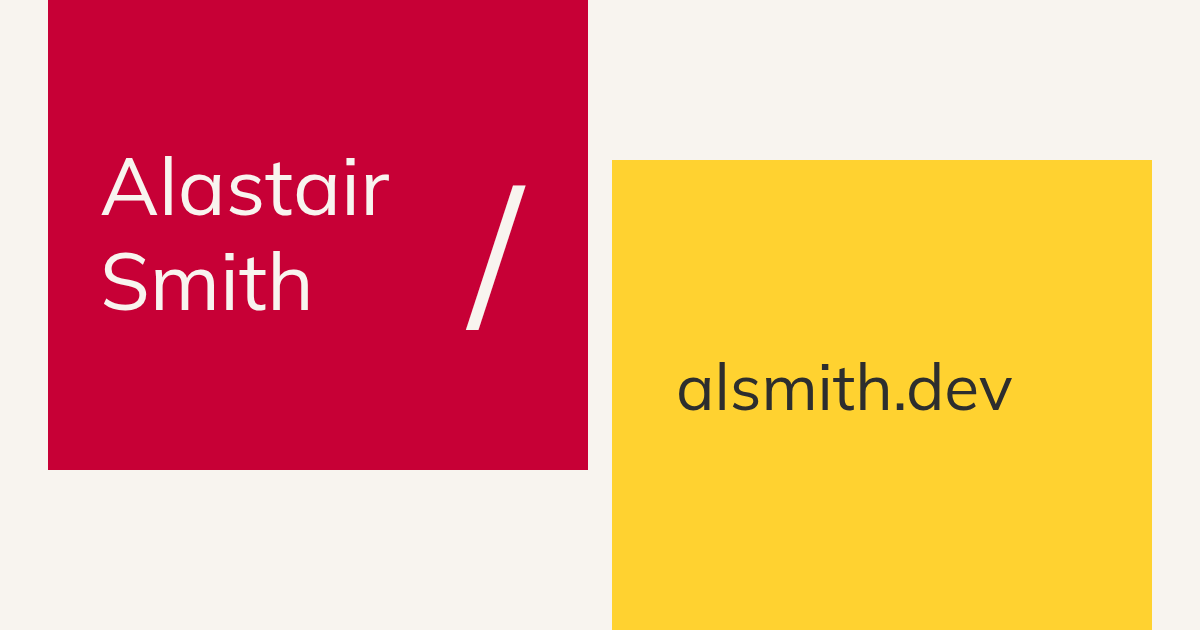
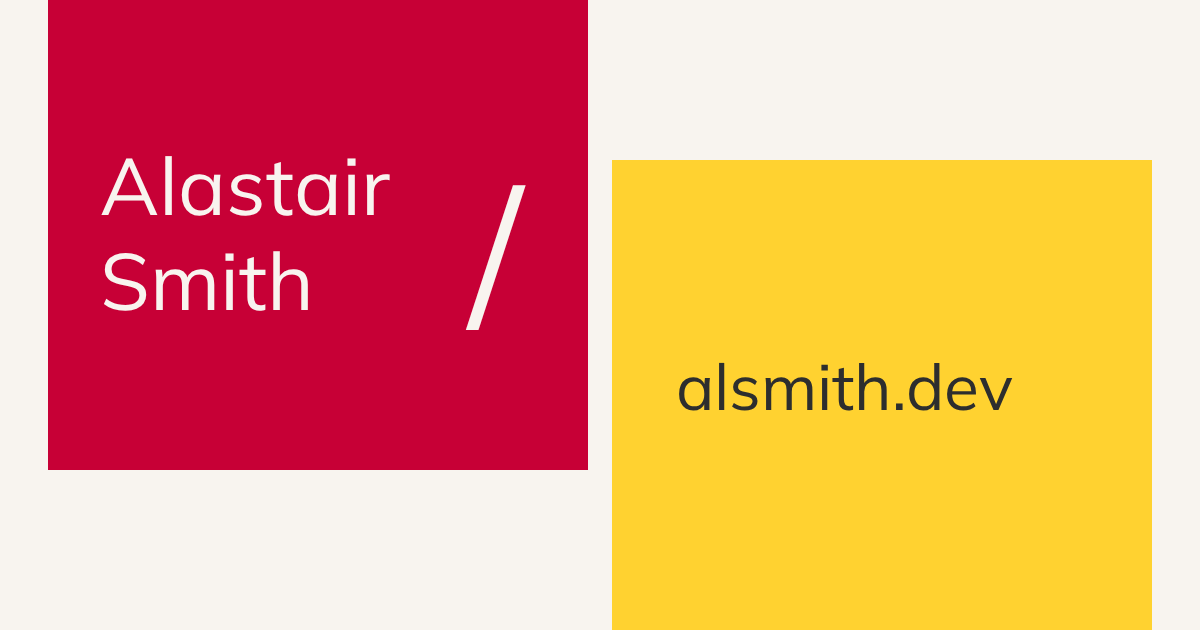
render the images with Playwright instead of a Chrome binary
The script hunted for a Chrome binary across a candidate list, then shelled
out to it with headless CLI flags, a temp HTML file per image and a virtual
time budget standing in for waiting on the webfont. Playwright's chromium
does the same job as a library: one browser for the run, a page per image
sized by its viewport, the font inlined as a data URI so the markup can go
straight to setContent, and document.fonts.ready in place of the two second
guess.

og.png re-renders byte-different under the newer Chromium, but only in its
antialiasing.

Claude-Session: https://claude.ai/code/session_01T9jdGDsgDnDxdhMnspNWoU

diff --git a/README.md b/README.md
@@ -61,11 +61,12 @@ Change one of those SVGs and re-render with:
 pnpm run --dir "./apps/web" generate:images
 ```
 
-Rendering is done by headless Chrome so the cards can use the same Mulish
-webfont the site does. Set `CHROME` if the binary isn't in one of the usual
-places. Everything the site serves lands in `apps/web/public`; the LinkedIn
-banner isn't part of the site, so it renders next to its source in
-`apps/web/assets`. The outputs are committed, so this isn't part of the build.
+Rendering is done by Playwright's Chromium so the cards can use the same Mulish
+webfont the site does. Install the browser once with
+`pnpm exec playwright install chromium`. Everything the site serves lands in
+`apps/web/public`; the LinkedIn banner isn't part of the site, so it renders
+next to its source in `apps/web/assets`. The outputs are committed, so this
+isn't part of the build.
 
 `icon-maskable.svg` is the same design with the ribbons pulled in, so an
 Android launcher cropping it to a circle doesn't take a bite out of them.
